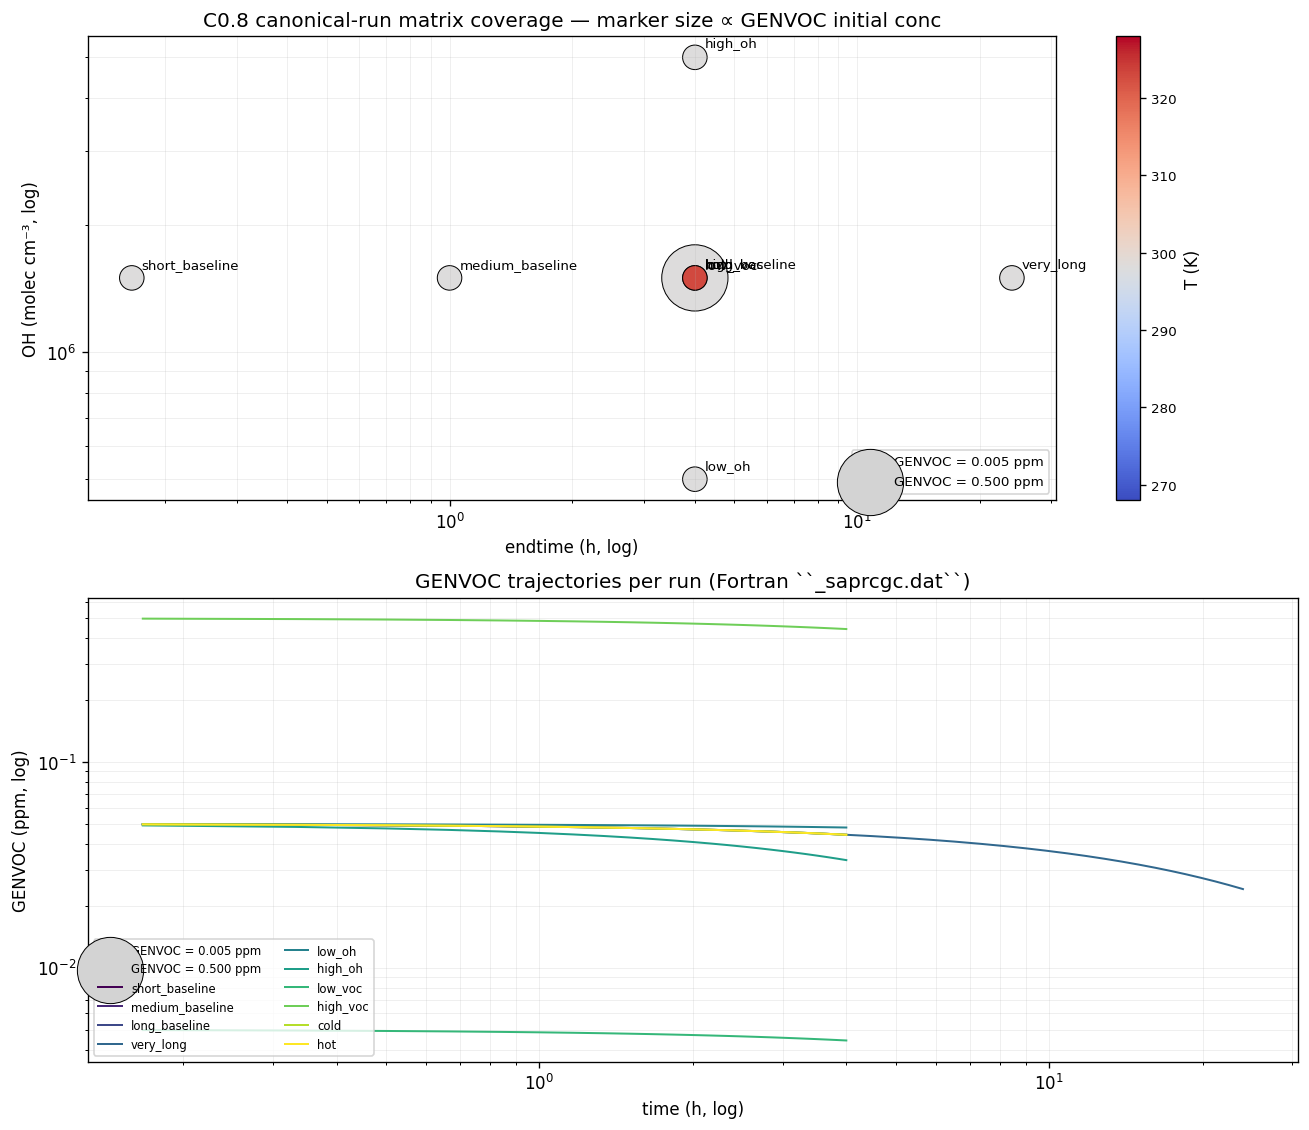
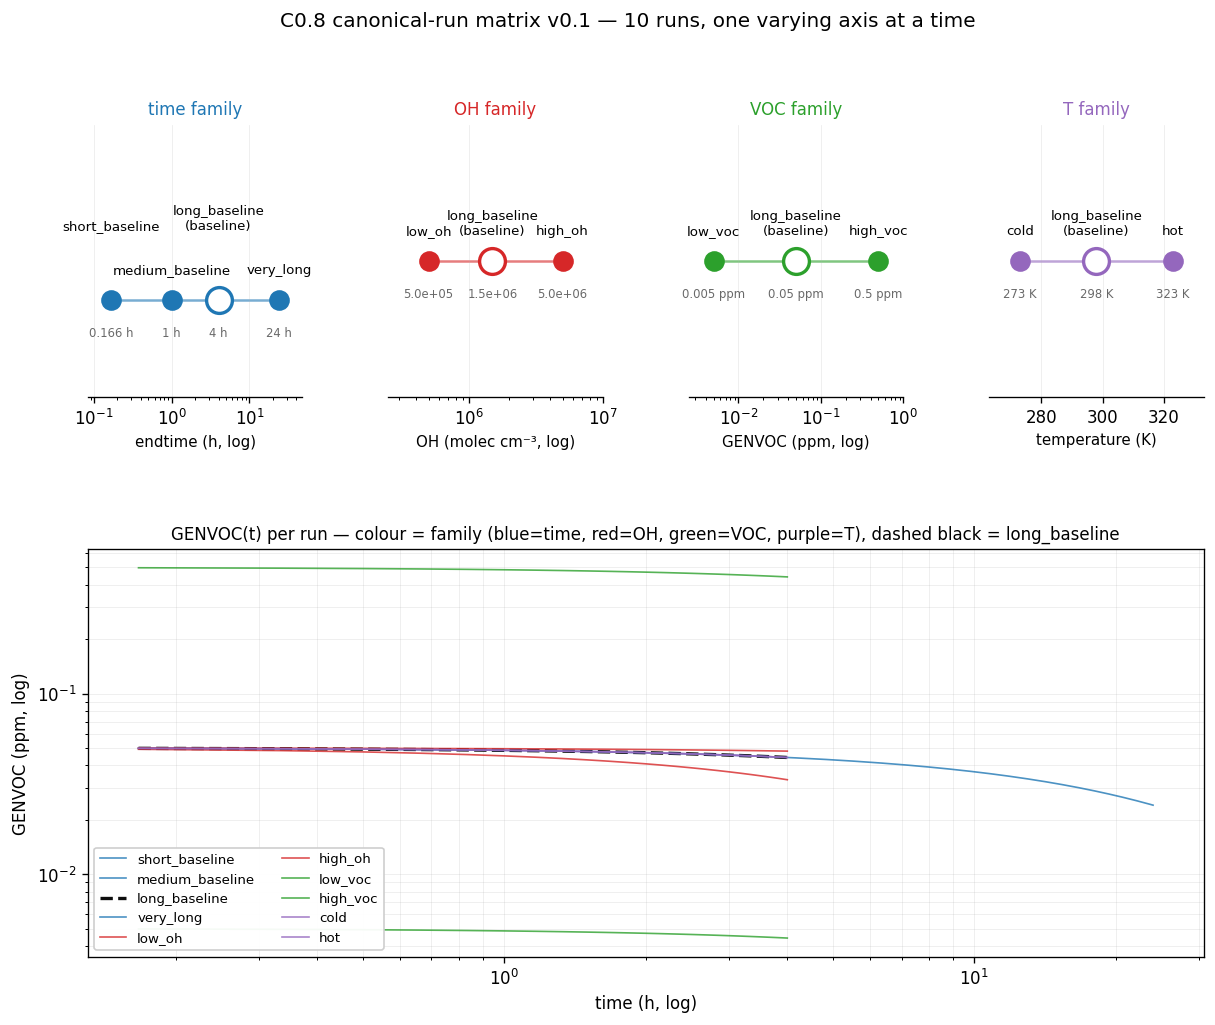
C0.8 figure: small-multiples per axis to make matrix structure legible
The previous matrix_coverage.png used a single (endtime, OH) scatter
where 4 of the 10 runs (long_baseline + cold + hot + low_voc +
high_voc) all sat at (4 h, 1.5e6) and stacked invisibly behind each
other. Replace with a small-multiples layout: one panel per axis the
matrix sweeps (time, OH, VOC, T), each showing the runs that vary
along that axis as dots on a 1-D line, with long_baseline highlighted
as a hollow centre dot in every panel where it appears. Numeric
values labeled.

Bottom panel keeps the GENVOC(t) trajectory overlay but colour-codes
curves by family (blue=time, red=OH, green=VOC, purple=T) with the
baseline as dashed black, making the per-axis effect easy to read.

diff --git a/scripts/make_c0.8_figures.py b/scripts/make_c0.8_figures.py
@@ -1,19 +1,23 @@
 """Render visual diagnostics for the C0.8 canonical-run matrix.
 
+The matrix v0.1 is structured as a *baseline* (``long_baseline``: 4 h,
+OH=1.5e6, GENVOC=0.05, T=298 K) plus four families of runs that each
+sweep ONE axis while holding the others at the baseline. The figure
+shows that structure with one panel per axis, so each varying axis is
+visually distinct rather than collapsing onto a single (x, y) scatter
+point.
+
 Two-panel figure under ``docs/figures/c0.8/``:
 
 1. ``matrix_coverage.png``
-   - Top: scatter of all 10 runs in the ``(endtime_h, OH)`` plane,
-     marker size encoding GENVOC magnitude and colour encoding
-     temperature. Annotated with the run_id.
-   - Bottom: GENVOC trajectory over time for every run, read straight
-     out of ``data/canonical_runs/expected/<run_id>/<run_id>_saprcgc.dat``.
-     Logs both axes to keep the very_long curve readable next to
-     short_baseline.
-
-The figure is what reviewers look at before approving a matrix design
-change. When master plan Q5 lands and the matrix is revised, this
-script just re-runs.
+   - Top (4 small panels): one per varying axis. Within each panel the
+     runs that vary that axis are shown along a 1-D line, with the
+     baseline run highlighted. Each panel makes its own axis tick
+     scaling explicit so "what does this matrix cover?" is unambiguous.
+   - Bottom: GENVOC(t) trajectory per run, drawn straight from the
+     committed ``_saprcgc.dat``. Curves are colour-coded by which
+     family they belong to (time, OH, VOC, T) so the per-axis effect is
+     easy to read.
 """
 
 from __future__ import annotations
@@ -33,6 +37,41 @@ from atmos_jax_common.goldens import load_golden_run  # noqa: E402
 _EXPECTED_DIR = _REPO_ROOT / "data" / "canonical_runs" / "expected"
 _OUT = _REPO_ROOT / "docs" / "figures" / "c0.8"
 
+# Group runs by the axis they vary. Family colours feed both the
+# small-multiples panels and the trajectory legend so a reader can
+# trace a run from its family bar to its trajectory.
+_FAMILIES: dict[str, dict] = {
+    "time": {
+        "axis_label": "endtime (h, log)",
+        "axis_attr": "endtime_h",
+        "log": True,
+        "members": ("short_baseline", "medium_baseline", "long_baseline", "very_long"),
+        "colour": "#1f77b4",
+    },
+    "OH": {
+        "axis_label": "OH (molec cm⁻³, log)",
+        "axis_attr": "OH_molec_per_cm3",
+        "log": True,
+        "members": ("low_oh", "long_baseline", "high_oh"),
+        "colour": "#d62728",
+    },
+    "VOC": {
+        "axis_label": "GENVOC (ppm, log)",
+        "axis_attr": "ippmprec_ppm",
+        "log": True,
+        "members": ("low_voc", "long_baseline", "high_voc"),
+        "colour": "#2ca02c",
+    },
+    "T": {
+        "axis_label": "temperature (K)",
+        "axis_attr": "temp_K",
+        "log": False,
+        "members": ("cold", "long_baseline", "hot"),
+        "colour": "#9467bd",
+    },
+}
+_BASELINE_RUN_ID = "long_baseline"
+
 
 def _save(fig: plt.Figure, name: str) -> None:
     _OUT.mkdir(parents=True, exist_ok=True)
@@ -43,76 +82,109 @@ def _save(fig: plt.Figure, name: str) -> None:
     print(f"wrote {path.relative_to(_REPO_ROOT)}  ({size_kb:.1f} KB)")
 
 
-def main() -> int:
-    matrix = load_manifest(default_manifest_path())
-
-    fig, (ax_cov, ax_traj) = plt.subplots(2, 1, figsize=(11.0, 9.5))
-
-    # --- Top: coverage scatter --------------------------------------------
-    endtimes = np.array([r.params.endtime_h for r in matrix.runs])
-    ohs = np.array([r.params.OH_molec_per_cm3 for r in matrix.runs])
-    vocs = np.array([r.params.ippmprec_ppm for r in matrix.runs])
-    temps = np.array([r.params.temp_K for r in matrix.runs])
-
-    sizes = 80 + 1500 * (vocs - vocs.min()) / (vocs.max() - vocs.min() + 1e-12)
-    sc = ax_cov.scatter(
-        endtimes,
-        ohs,
-        s=sizes,
-        c=temps,
-        cmap="coolwarm",
-        edgecolor="black",
-        linewidth=0.6,
-        vmin=temps.min() - 5,
-        vmax=temps.max() + 5,
-    )
-    cbar = fig.colorbar(sc, ax=ax_cov, label="T (K)")
-    cbar.ax.tick_params(labelsize=8)
-
-    for r, x, y in zip(matrix.runs, endtimes, ohs, strict=False):
-        ax_cov.annotate(
-            r.run_id,
-            xy=(x, y),
-            xytext=(6, 6),
+def _draw_axis_panel(ax: plt.Axes, family_key: str, runs_by_id: dict) -> None:
+    fam = _FAMILIES[family_key]
+    members = fam["members"]
+    values = np.asarray([getattr(runs_by_id[rid].params, fam["axis_attr"]) for rid in members])
+    y = np.zeros_like(values)
+    ax.plot(values, y, color=fam["colour"], linewidth=1.5, alpha=0.6, zorder=1)
+    # Alternate label vertical offsets to avoid overlap when values
+    # are close on a log axis (e.g., the 4-member time family).
+    label_offsets = [40, 14] if len(members) >= 4 else [14] * len(members)
+    for idx, (rid, v) in enumerate(zip(members, values, strict=False)):
+        is_baseline = rid == _BASELINE_RUN_ID
+        ax.scatter(
+            v,
+            0.0,
+            s=240 if is_baseline else 130,
+            facecolor="white" if is_baseline else fam["colour"],
+            edgecolor=fam["colour"],
+            linewidth=2.0 if is_baseline else 1.0,
+            zorder=2,
+        )
+        label = rid + ("\n(baseline)" if is_baseline else "")
+        offset_y = label_offsets[idx % len(label_offsets)]
+        ax.annotate(
+            label,
+            xy=(v, 0.0),
+            xytext=(0, offset_y),
             textcoords="offset points",
+            ha="center",
+            va="bottom",
             fontsize=8,
         )
+        if fam["axis_attr"] == "OH_molec_per_cm3":
+            value_str = f"{v:.1e}"
+        elif fam["axis_attr"] == "ippmprec_ppm":
+            value_str = f"{v:.3g} ppm"
+        elif fam["axis_attr"] == "temp_K":
+            value_str = f"{v:.0f} K"
+        else:
+            value_str = f"{v:g} h"
+        ax.annotate(
+            value_str,
+            xy=(v, 0.0),
+            xytext=(0, -16),
+            textcoords="offset points",
+            ha="center",
+            va="top",
+            fontsize=7,
+            color="dimgray",
+        )
 
-    ax_cov.set_xscale("log")
-    ax_cov.set_yscale("log")
-    ax_cov.set_xlabel("endtime (h, log)")
-    ax_cov.set_ylabel("OH (molec cm⁻³, log)")
-    ax_cov.set_title("C0.8 canonical-run matrix coverage — marker size ∝ GENVOC initial conc")
-    ax_cov.grid(True, which="both", alpha=0.3, linewidth=0.4)
+    if fam["log"]:
+        ax.set_xscale("log")
+    ax.set_xlabel(fam["axis_label"], fontsize=9)
+    ax.set_yticks([])
+    # Extra headroom when we stagger labels for 4+-member families.
+    ax.set_ylim(-0.5, 0.9 if len(members) >= 4 else 0.5)
+    if fam["log"]:
+        ax.set_xlim(values.min() * 0.5, values.max() * 2.0)
+    else:
+        ax.set_xlim(values.min() - 10, values.max() + 10)
+    ax.set_title(f"{family_key} family", fontsize=10, color=fam["colour"])
+    ax.spines["top"].set_visible(False)
+    ax.spines["right"].set_visible(False)
+    ax.spines["left"].set_visible(False)
+    ax.grid(True, axis="x", alpha=0.3, linewidth=0.4)
 
-    # Manual legend for marker size scale.
-    voc_lo, voc_hi = vocs.min(), vocs.max()
-    legend_handles = [
-        plt.scatter(
-            [],
-            [],
-            s=80,
-            color="lightgray",
-            edgecolor="black",
-            linewidth=0.6,
-            label=f"GENVOC = {voc_lo:.3f} ppm",
-        ),
-        plt.scatter(
-            [],
-            [],
-            s=80 + 1500,
-            color="lightgray",
-            edgecolor="black",
-            linewidth=0.6,
-            label=f"GENVOC = {voc_hi:.3f} ppm",
-        ),
-    ]
-    ax_cov.legend(handles=legend_handles, loc="lower right", fontsize=8, scatterpoints=1)
 
-    # --- Bottom: GENVOC trajectory per run --------------------------------
-    cmap = plt.get_cmap("viridis")
-    n_runs = len(matrix.runs)
-    for i, run in enumerate(matrix.runs):
+def _family_for_run(run_id: str) -> str:
+    if run_id == _BASELINE_RUN_ID:
+        return "baseline"
+    for fkey, fam in _FAMILIES.items():
+        if run_id in fam["members"]:
+            return fkey
+    return "other"
+
+
+def main() -> int:
+    matrix = load_manifest(default_manifest_path())
+    runs_by_id = {r.run_id: r for r in matrix.runs}
+
+    fig = plt.figure(figsize=(12.0, 9.0))
+    gs = fig.add_gridspec(2, 4, height_ratios=[1.0, 1.5], hspace=0.45, wspace=0.4)
+    for i, key in enumerate(_FAMILIES):
+        ax = fig.add_subplot(gs[0, i])
+        _draw_axis_panel(ax, key, runs_by_id)
+
+    fig.suptitle(
+        "C0.8 canonical-run matrix v0.1 — 10 runs, one varying axis at a time",
+        fontsize=12,
+        y=0.985,
+    )
+
+    ax_traj = fig.add_subplot(gs[1, :])
+
+    plotted_any = False
+    family_styles = {
+        "time": ("#1f77b4", "-"),
+        "OH": ("#d62728", "-"),
+        "VOC": ("#2ca02c", "-"),
+        "T": ("#9467bd", "-"),
+        "baseline": ("black", "--"),
+    }
+    for run in matrix.runs:
         run_dir = _EXPECTED_DIR / run.run_id
         if not run_dir.is_dir():
             ax_traj.text(
@@ -123,29 +195,37 @@ def main() -> int:
                 fontsize=11,
             )
             break
+        fam = _family_for_run(run.run_id)
+        colour, ls = family_styles.get(fam, ("#7f7f7f", "-"))
         golden = load_golden_run(run_dir, run.run_id)
         genvoc_idx = golden.spec.active_gas_species.index("GENVOC")
         t = np.asarray(golden.gc.time_hours)
         y = np.asarray(golden.saprcgc_ppm[:, genvoc_idx])
-        # Skip t=0 to keep the log axis happy.
         mask = t > 0
         ax_traj.plot(
             t[mask],
             y[mask],
+            color=colour,
+            linestyle=ls,
+            linewidth=2.0 if run.run_id == _BASELINE_RUN_ID else 1.0,
+            alpha=0.95 if run.run_id == _BASELINE_RUN_ID else 0.8,
             label=run.run_id,
-            color=cmap(i / max(n_runs - 1, 1)),
-            linewidth=1.2,
         )
+        plotted_any = True
 
-    ax_traj.set_xscale("log")
-    ax_traj.set_yscale("log")
-    ax_traj.set_xlabel("time (h, log)")
-    ax_traj.set_ylabel("GENVOC (ppm, log)")
-    ax_traj.set_title("GENVOC trajectories per run (Fortran ``_saprcgc.dat``)")
-    ax_traj.grid(True, which="both", alpha=0.3, linewidth=0.4)
-    ax_traj.legend(loc="lower left", fontsize=7, ncol=2)
+    if plotted_any:
+        ax_traj.set_xscale("log")
+        ax_traj.set_yscale("log")
+        ax_traj.set_xlabel("time (h, log)")
+        ax_traj.set_ylabel("GENVOC (ppm, log)")
+        ax_traj.set_title(
+            "GENVOC(t) per run — colour = family (blue=time, red=OH, green=VOC, "
+            "purple=T), dashed black = long_baseline",
+            fontsize=10,
+        )
+        ax_traj.grid(True, which="both", alpha=0.3, linewidth=0.4)
+        ax_traj.legend(loc="lower left", fontsize=8, ncol=2, framealpha=0.95)
 
-    fig.tight_layout()
     _save(fig, "matrix_coverage.png")
     return 0
 

diff --git a/README.md b/README.md
@@ -62,7 +62,7 @@ Each scientific chunk that ships data or numerical logic ships matplotlib figure
 
 | File | What it shows |
 |---|---|
-| [`docs/figures/c0.8/matrix_coverage.png`](docs/figures/c0.8/matrix_coverage.png) | Top: scatter of all 10 runs in the (endtime, OH) plane, marker size encoding GENVOC magnitude and colour encoding temperature. Bottom: GENVOC trajectory per run, drawn directly from the committed `_saprcgc.dat`. Shows the matrix covers 3 orders of magnitude in time, ~10× in OH dose, ~100× in initial VOC, and a 50 K temperature range. |
+| [`docs/figures/c0.8/matrix_coverage.png`](docs/figures/c0.8/matrix_coverage.png) | Top row: 4 small panels, one per axis the matrix sweeps (time, OH, VOC, T). Each panel shows the runs that vary along that axis as dots on a 1-D line, with `long_baseline` highlighted as a hollow centre dot in every panel where it appears. Numeric values labeled. Bottom: GENVOC(t) trajectories per run, colour-coded by family — blue=time, red=OH, green=VOC, purple=T, dashed black = long_baseline. Shows the matrix covers ~3 orders of magnitude in time (10 min → 24 h), ~10× in OH, ~100× in initial VOC, and a 50 K T range, all anchored on a shared 4-h baseline. |
 
 To regenerate: `python scripts/make_c0.6_figures.py`, `make_c0.7_figures.py`, `make_c0.8_figures.py` (requires `pip install -e ".[dev]"`).
 
